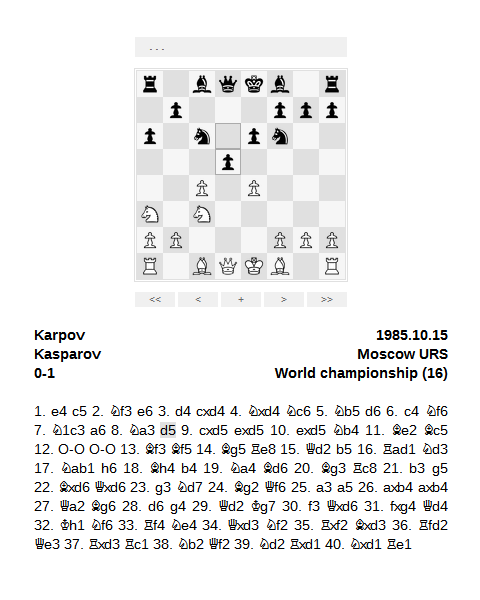
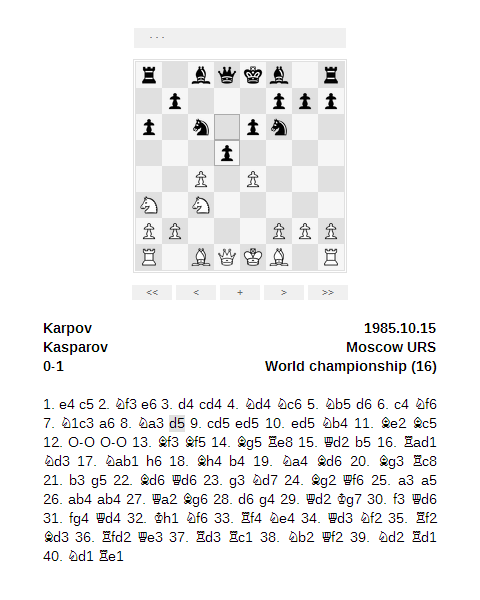
release 2.77.00
git-svn-id: https://plugins.svn.wordpress.org/embed-chessboard/trunk@767813 b8457f37-d9ea-0310-8a92-e5e31aec5664

diff --git a/pgn4web/pgn4web.js b/pgn4web/pgn4web.js
@@ -7,7 +7,7 @@
 
 "use strict";
 
-var pgn4web_version = '2.76';
+var pgn4web_version = '2.77';
 
 var pgn4web_project_url = "http://pgn4web.casaschi.net";
 var pgn4web_project_author = "Paolo Casaschi";
@@ -831,28 +831,30 @@ function CurrentFEN() {
 }
 
 var fenWin;
-function displayFenData() {
+function displayFenData(addGametext) {
   if (fenWin && !fenWin.closed) { fenWin.close(); }
 
   var thisFEN = CurrentFEN();
 
   var movesStr = "";
   var lineStart = 0;
-  for (var thisPly = CurrentPly; thisPly <= StartPly + PlyNumber; thisPly++) {
-    var addStr = "";
-    if (thisPly == StartPly + PlyNumber) {
-      addStr = (CurrentVar ? "*" : gameResult[currentGame] || "*");
-    } else {
-      if (thisPly%2 === 0) { addStr = (Math.floor(thisPly/2)+1) + ". "; }
-      else if (thisPly == CurrentPly) { addStr = (Math.floor(thisPly/2)+1) + "... "; }
-      addStr += Moves[thisPly];
-    }
-    if (movesStr.length + addStr.length + 1 > lineStart + 80) {
-      lineStart = movesStr.length;
-      movesStr += "\n" + addStr;
-    } else {
-      if (movesStr.length > 0) { movesStr += " "; }
-      movesStr += addStr;
+  if (addGametext) {
+    for (var thisPly = CurrentPly; thisPly <= StartPly + PlyNumber; thisPly++) {
+      var addStr = "";
+      if (thisPly == StartPly + PlyNumber) {
+        addStr = (CurrentVar ? "*" : gameResult[currentGame] || "*");
+      } else {
+        if (thisPly%2 === 0) { addStr = (Math.floor(thisPly/2)+1) + ". "; }
+        else if (thisPly == CurrentPly) { addStr = (Math.floor(thisPly/2)+1) + "... "; }
+        addStr += Moves[thisPly];
+      }
+      if (movesStr.length + addStr.length + 1 > lineStart + 80) {
+        lineStart = movesStr.length;
+        movesStr += "\n" + addStr;
+      } else {
+        if (movesStr.length > 0) { movesStr += " "; }
+        movesStr += addStr;
+      }
     }
   }
 
@@ -860,19 +862,22 @@ function displayFenData() {
   if (fenWin) {
     var text = "<html>" +
       "<head><title>pgn4web FEN string</title><link rel='shortcut icon' href='pawn.ico' /></head>" +
-      "<body>\n<b><pre>\n\n" + thisFEN + "\n\n</pre></b>\n<hr>\n<pre>\n\n" +
-      "[Event \""  + ((CurrentVar ? "" : gameEvent[currentGame])  || "?") + "\"]\n" +
+      "<body>\n<b><pre>\n\n" + thisFEN + "\n\n</pre></b>\n<hr>\n<pre>\n\n";
+    if (addGametext) {
+      text += "[Event \""  + ((CurrentVar ? "" : gameEvent[currentGame])  || "?") + "\"]\n" +
       "[Site \""   + ((CurrentVar ? "" : gameSite[currentGame])   || "?") + "\"]\n" +
       "[Date \""   + ((CurrentVar ? "" : gameDate[currentGame])   || "????.??.??") + "\"]\n" +
       "[Round \""  + ((CurrentVar ? "" : gameRound[currentGame])  || "?") + "\"]\n" +
       "[White \""  + ((CurrentVar ? "" : gameWhite[currentGame])  || "?") + "\"]\n" +
       "[Black \""  + ((CurrentVar ? "" : gameBlack[currentGame])  || "?") + "\"]\n" +
       "[Result \"" + ((CurrentVar ? "" : gameResult[currentGame]) || "*") + "\"]\n";
-    if (thisFEN != FenStringStart) {
+    }
+    if ((thisFEN != FenStringStart) || (!addGametext)) {
       text += "[SetUp \"1\"]\n" + "[FEN \"" + thisFEN + "\"]\n";
     }
     if (gameVariant[currentGame] !== "") { text += "[Variant \"" + gameVariant[currentGame] + "\"]\n"; }
-    text += "\n" + movesStr + "\n</pre>\n</body></html>";
+    if (addGametext) { text += "\n" + movesStr + "\n"; }
+    text += "</pre>\n</body></html>";
     fenWin.document.open("text/html", "replace");
     fenWin.document.write(text);
     fenWin.document.close();
@@ -1257,7 +1262,7 @@ function CheckClearWay(thisPiece) {
 }
 
 function CleanMove(move) {
-  move = move.replace(/[^a-zA-Z0-9#=-]*/g, ''); // patch here adding '+' before '#' to pass through check signs or remove 'x' and '=' for full Chess Informant style
+  move = move.replace(/[^a-wyzA-WYZ0-9#-]*/g, ''); // patch: remove/add '+' 'x' '=' chars for full chess informant style or pgn style for the game text
   if (move.match(/^[Oo0]/)) { move = move.replace(/[o0]/g, 'O').replace(/O(?=O)/g, 'O-'); }
   move = move.replace(/ep/i, '');
   return move;
@@ -3025,7 +3030,7 @@ function ParsePGNGameString(gameString) {
         if (start == ss.length) { break; }
 
         moveCount = Math.floor((StartPly+PlyNumber)/2)+1;
-        needle = moveCount.toString()+'.';
+        needle = moveCount.toString();
         if (ss.indexOf(needle,start)==start) {
           start += needle.length;
           while (' .\n\r'.indexOf(ss.charAt(start)) != -1) { start++; }
@@ -3388,8 +3393,8 @@ function searchPgnGamePrompt() {
 }
 
 function searchPgnGameForm() {
-  if (theObj = document.getElementById('searchPgnExpression'))
-  { searchPgnGame(document.getElementById('searchPgnExpression').value); }
+  var theObj = document.getElementById('searchPgnExpression');
+  if (theObj) { searchPgnGame(document.getElementById('searchPgnExpression').value); }
 }
 
 var chessMovesRegExp = new RegExp("\\b((\\d+(\\.{1,3}|\\s)\\s*)?((([KQRBN][a-h1-8]?)|[a-h])?x?[a-h][1-8](=[QRNB])?|O-O-O|O-O)\\b[!?+#]*)", "g");
@@ -4135,5 +4140,9 @@ function clearSelectedText() {
 
 function simpleHtmlentities(text) {
   return text.replace(/&/g, "&amp;").replace(/</g, "&lt;").replace(/>/g, "&gt;");
+}
+
+function simpleHtmlentitiesDecode(text) {
+  return text.replace(/&gt;/g, ">").replace(/&lt;/g, "<").replace(/&amp;/g, "&");
 }
 

diff --git a/embedchessboard.php b/embedchessboard.php
@@ -4,7 +4,7 @@
 Plugin Name: Embed Chessboard
 Plugin URI: http://wordpress.org/extend/plugins/embed-chessboard/
 Description: Embeds a javascript chessboard in wordpress articles for replaying chess games. Use plugin options to blend the chessboard with the site template; use tag parameters to customize each chessboard. Insert chess games in PGN format into your wordpress article using the syntax: <code>[pgn parameter=value ...] e4 e6 d4 d5 [/pgn]</code>. For more info on plugin options and tag parameters please <a href="http://code.google.com/p/pgn4web/wiki/User_Notes_wordpress">read the tutorial</a>.
-Version: 2.76.00
+Version: 2.77.00
 Author: Paolo Casaschi
 Author URI: http://pgn4web.casaschi.net
 Copyright: copyright (C) 2009-2013 Paolo Casaschi
@@ -113,6 +113,7 @@ ChangeLog:
   1.97  - upgraded pgn4web to 2.74
   2.75.00 - changed version numbering scheme and upgraded pgn4web to 2.75
   2.76.00 - upgraded pgn4web to 2.76
+  2.77.00 - upgraded pgn4web to 2.77 with improved chess informant style game text
 */
 
 class pgnBBCode {
